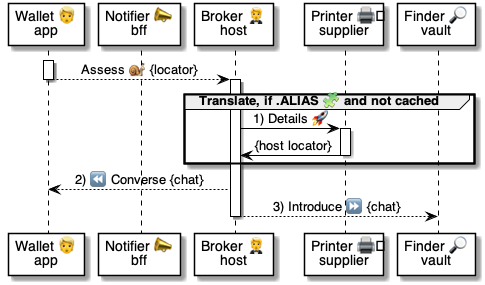
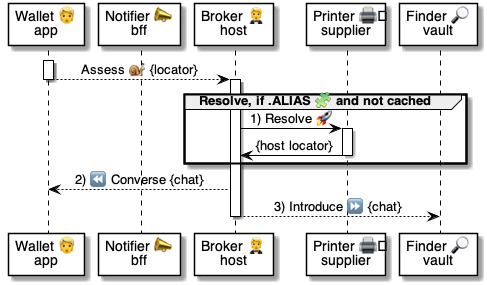
.

diff --git a/4 ⚙ Solution/45 🤲 Helper domains/Printers 🖨/🖨🅰 Printer methods/👥🚀🖨 Grab.md b/4 ⚙ Solution/45 🤲 Helper domains/Printers 🖨/🖨🅰 Printer methods/👥🚀🖨 Grab.md
@@ -11,9 +11,10 @@ Header:
     From: any-domain.dom
     To: any-printer.dom
     Subject: Grab@Printer
+
 Body: 
     Alias: ANY-ALIAS
-    Locator: .HOST,any-host.dom,ANY-RESOURCE,A=1,B=2
+    Locator: .HOST,any-host.dom,any-key
 ```
 
 |Object|Property|Type|Description
@@ -22,14 +23,46 @@ Body:
 || `To` | string | [Printer 🖨 domain](<../🖨🤲 Printer helper.md>) name
 || `Subject`| string | `Grab@Printer`
 |Body|`Alias`| string | Unique alias on the [Printer 🖨](<../🖨🤲 Printer helper.md>)
-|       | `Locator`    | string | The [Locator 🔆](<../../../25 🔆 Locators/Locators 🔆/🔆 Locator.md>) of a [Host 🤗 domain](<../../../41 🎭 Domain Roles/Hosts 🤗/🤗🎭 Host role.md>) 
+|| Locator | string | [Locator 🔆](<../../../25 🔆 Locators/Locators 🔆/🔆 Locator.md>) 
 |
+
+<br/>
 
 ## Synchronous Response
 
 | HTTP | Details
 |-|-
 | 200   | Success.
-| 409   | Alias already occupied: <br/> - use another alias.
-| 405   | Locator not supported: <br/> - only [`.HOST 🧩`](<../../../41 🎭 Domain Roles/Hosts 🤗/🤗🧩 Host schemas/🧩 HOST.md>) is supported.
+| 409   | Alias already occupied - use another alias.
+| 400   | Locator not supported - only [`.HOST 🧩`](<../../../41 🎭 Domain Roles/Hosts 🤗/🤗🧩 Host schemas/🧩 HOST.md>) is supported.
 |
+
+<br/>
+
+## Handler
+
+```yaml
+# Verify the signature.
+- VERIFY|$.Msg
+
+# Only create Alias for Hosts.
+- ASSERT|$.Msg.Locator:
+    Host: .HOST
+
+# Save on the table.
+- SAVE|Aliases@Printer >> $locator:
+    Alias: $.Msg.Alias
+    Locator: $.Msg.Locator 
+
+# Respond with the Locator.
+- REEL
+```
+
+| [Command ⌘](<../../../35 💬 Chats/😃 Talkers/😃⚙ Talker cmds/for control/⌘ Command.md>) | Purpose
+|-|-
+| 📨 [`$.Msg`](<../../../35 💬 Chats/😃 Talkers/😃⚙ Talker cmds/for handlers/$.Msg 📨.md>) | Read the incoming [Message 📨](<../../../30 🧩 Data/Messages 📨/📨 Message.md>)
+| 🚦 [`ASSERT`](<../../../35 💬 Chats/😃 Talkers/😃⚙ Talker cmds/for handlers/ASSERT 🚦.md>) | Require [Locator 🔆](<../../../25 🔆 Locators/Locators 🔆/🔆 Locator.md>) schemas as `.HOST`
+| 💾 [`SAVE`](<../../../35 💬 Chats/😃 Talkers/😃⚙ Talker cmds/for data/SAVE 💾 item.md>) | Save to [Aliases 🪣](<../🖨🪣 Printer tables/🖨🪣 Aliases.md>) with `NoUpdate`
+| 🎣 [`REEL`](<../../../35 💬 Chats/😃 Talkers/😃⚙ Talker cmds/for handlers/REEL 🎣.md>) | Respond to the [Synchronous Request 🚀](<../../../30 🧩 Data/Messages 📨/📨⏩ Message flows/Request Sync 🚀.md>)
+|
+

diff --git a/4 ⚙ Solution/35 💬 Chats/😃 Talkers/😃⚙ Talker cmds/for flows/FILTER 🔽 msg.md b/4 ⚙ Solution/35 💬 Chats/😃 Talkers/😃⚙ Talker cmds/for flows/FILTER 🔽 msg.md
@@ -9,7 +9,7 @@
 
     A `FILTER`
     * is a message [Command ⌘](<../for control/⌘ Command.md>) 
-    * that calls [`MANY` 🔠 prompt](<🤔✏ Prompt inputs/54 🔠 MANY prompt.md>)
+    * that calls [`MANY` 🔠 prompt](<../../../🤔 Prompts/🤔✏ Prompt inputs/54 🔠 MANY prompt.md>)
     * to return only the user-selected items of a list.
 
 
@@ -40,11 +40,11 @@
 
 1. **What's an example of a FILTER?**
 
-    Here's a [Chat 💬](<../../../4 ⚙ Solution/35 💬 Chats/💬 Chats/💬 Chat.md>).
+    Here's a [Chat 💬](<../../../💬 Chats/💬 Chat.md>).
 
-    | [Domain](<../../../40 👥 Domains/👥 Domain.md>) | [Prompt](<../../../35 💬 Chats/🤔 Prompts/🤔 Prompt.md>) | [User](<../🧑🦰🛠 Wallet app.md>)
+    | [Domain](<../../../../40 👥 Domains/👥 Domain.md>) | [Prompt](<../../../🤔 Prompts/🤔 Prompt.md>) | [User](<../../../../20 🧑🦰 UI/Wallets 🧑🦰/🧑🦰🛠 Wallet app.md>)
     | - | - | - |
-    | 🤗 [Host](<../../../41 🎭 Domain Roles/Hosts 🤗/🤗🎭 Host role.md>) | 😃 Which options? [All, No] <br/> - [ ] Some option <br/> - [ ] Another option | > All
+    | 🤗 [Host](<../../../../41 🎭 Domain Roles/Hosts 🤗/🤗🎭 Host role.md>) | 😃 Which options? [All, No] <br/> - [ ] Some option <br/> - [ ] Another option | > All
     ||
 
     <br/>
@@ -104,10 +104,10 @@
 
     | [Command ⌘](<../../../../35 💬 Chats/😃 Talkers/😃⚙ Talker cmds/for control/⌘ Command.md>) | Purpose
     |-|-
-    | ⬇ [`EVAL`](<../../../4 ⚙ Solution/35 💬 Chats/😃 Talkers/😃⚙ Talker cmds/for data/EVAL ⬇ flow.md>) | Format the options
+    | ⬇ [`EVAL`](<../for data/EVAL ⬇ flow.md>) | Format the options
     | 🔠 [`MANY`](<../../../🤔 Prompts/🤔✏ Prompt inputs/54 🔠 MANY prompt.md>) | Ask the user to select
     | 🧬 [`MERGE`](<../../../../35 💬 Chats/😃 Talkers/😃⚙ Talker cmds/for data/MERGE 🧬 lists.md>) | Merge the results
-    | ↩ [`RETURN`](<RETURN ↩.md>) | Return the selection
+    | ↩ [`RETURN`](<../for control/RETURN ↩.md>) | Return the selection
         
     
 

diff --git a/4 ⚙ Solution/30 🧩 Data/Datasets 🪣/🪣🔣 Dataset types/Itemized 🛢.md b/4 ⚙ Solution/30 🧩 Data/Datasets 🪣/🪣🔣 Dataset types/Itemized 🛢.md
@@ -6,7 +6,23 @@
 
 <br/>
 
-1. **Whats the simplest syntax for itemized schemas?**
+
+1. **What properties are supported?**
+
+    | Property      | Type | Details
+    |-|-|-
+    | `Name`        | string    | Name of the table
+    | `Key`         | string[]  | Index for updates
+    | `Parents`     | map       | List of parent items
+    | `Children`    | map       | List of children items
+    | `Distincts`   | map       | List of grouped fields
+    | `NoUpdates`   | bool      | Blocks item updates
+    | `OnBlocked`   | string[]  | [Commands ⌘](<../../../35 💬 Chats/😃 Talkers/😃⚙ Talker cmds/for control/⌘ Command.md>) if blocked
+
+    ---
+    <br/>
+
+1. **What's the simplest syntax for itemized schemas?**
 
     ```yaml
     # First column is the key.
@@ -190,7 +206,29 @@
     ---
     <br/>
    
+1. **How to block updates?**
 
+    Here's the table definition.
+
+    ```yaml
+    NoUpdates: True  # it's False by default
+    ```
+
+    Here's a [Talker 😃](<../../😃 Talker.md>) excerpt from [`Grab@Printer`](<../../../45 🤲 Helper domains/Printers 🖨/🖨🅰. Printer methods/👥🚀🖨 Grab.md>)
+
+    ```yaml
+    SAVE|AnyTable:
+        OnBlocked: REEL|409
+    ```
+
+    |Action|Condition|Behavior
+    |-|-|-
+    | 💾 [`SAVE`](<../../../35 💬 Chats/😃 Talkers/😃⚙ Talker cmds/for data/SAVE 💾 item.md>) | Same value | Allows multiple  idempotent saves
+    | |Different | Blocked, raises an error
+    | 🗑 [`DELETE`](<../../../35 💬 Chats/😃 Talkers/😃⚙ Talker cmds/for data/DELETE 🗑 item.md>) | - | Allows multiple idempotent times
+
+    ---
+    <br/>
 
 1. **What are use cases of itemized schemas?**
 

diff --git a/4 ⚙ Solution/20 🧑🦰 UI/Brokers 🤵/🤵🅰 Broker methods/2 🤵🅰 Locators/🧑🦰🐌🤵 Assess.md b/4 ⚙ Solution/20 🧑🦰 UI/Brokers 🤵/🤵🅰 Broker methods/2 🤵🅰 Locators/🧑🦰🐌🤵 Assess.md
@@ -3,7 +3,6 @@
 * Part of [🤵⏩🧑🦰 Assess 🔆 flow](<../../🤵⏩ Broker flows/🤵⏩🧑🦰 Assess 🔆.md>):
     * precedes [`Converse@Notifier`](<../../../Notifiers 📣/📣🅰 Notifier methods/2 💬 Chats/1 🤵🐌📣 Converse.md>)
 
-
 * Parses the [Locator 🔆](<../../../../25 🔆 Locators/Locators 🔆/🔆 Locator.md>) in the [Broker 🤵 domain](<../../🤵🤲 Broker helper.md>).
     * If the [Locator 🔆](<../../../../25 🔆 Locators/Locators 🔆/🔆 Locator.md>) is [`.ALIAS 🧩`](<../../../../45 🤲 Helper domains/Printers 🖨/🖨🧩 Printer schemas/🧩 ALIAS.md>) 
     * then it needs to be be resolved by a [Printer 🖨 helper domain](<../../../../45 🤲 Helper domains/Printers 🖨/🖨🤲 Printer helper.md>)
@@ -44,7 +43,7 @@ Body:
 
 | # | Call | Notes
 |-|-|-
-| 1 | 
+| 1 | [👥🚀🖨 `Resolve@Printer`](<../../../../45 🤲 Helper domains/Printers 🖨/🖨🅰 Printer methods/👥🚀🖨 Resolve.md>) | Get the underlying [Locator 🔆](<../../../../25 🔆 Locators/Locators 🔆/🔆 Locator.md>) 
 | 2 | [🤵⏩🧑🦰 Converse 🔆](<../../🤵⏩ Broker flows/🤵⏩🧑🦰 Converse 💬.md>) | Ask [Wallets 🧑🦰](<../../../Wallets 🧑🦰/🧑🦰🛠 Wallet app.md>)  to open a chat window
 | 3 | [🔎⏩🧑🦰 Introduce 🤗](<../../../../50 🫥 Agent domains/Finders 🔎/🔎⏩ Finder flows/🔎⏩🧑🦰 Introduce 🤗.md>) | Ask [Finders 🔎](<../../../../50 🫥 Agent domains/Finders 🔎/🔎🫥 Finder agent.md>) to introduce [Hosts 🤗](<../../../../41 🎭 Domain Roles/Hosts 🤗/🤗🎭 Host role.md>)
 ||

diff --git a/4 ⚙ Solution/35 💬 Chats/😃 Talkers/😃⚙ Talker cmds/for handlers/ASSERT 🚦.md b/4 ⚙ Solution/35 💬 Chats/😃 Talkers/😃⚙ Talker cmds/for handlers/ASSERT 🚦.md
@@ -20,13 +20,14 @@
 1. **What's the syntax of ASSERT?**
 
     ```yaml
-    ASSERT:
+    ASSERT|<hint>:
         {evaluate-1}: {expect-1}
         {evaluate-N}: {expect-N}
     ```
     
     | Argument| Purpose | Examples
     |-|-|-
+    | `<hint>` | Optional hint about the structure | `$locator`
     | `{evaluate}` | String or [{Function}](<../for data/{Function} 🐍.md>) to be evaluated | `A` `{f}` `{$p}`
     || Supports missing `{}` in functions | `f()` `$p`
     | `{expect}` | String or [{Function}](<../for data/{Function} 🐍.md>) of expectation  | (same)
@@ -35,12 +36,36 @@
     <br/>
 
 
-1. **What's an example of ASSERT?**
+1. **How to assert a Message?**
 
     ```yaml
+    # Assert a matching pair.
     - ASSERT:
-        $.Msg.From: $broker
-    - SUCCESS|Message is from the broker.
+        $.Msg.From: any-broker.dom
+
+    # Show success message.
+    - SUCCESS|Message is from Any Broker
+    ```
+
+    ---
+    <br/>
+
+
+1. **How to assert a Locator?**
+
+    > This uses the syntax of the [`{.Parse}` 🔆 function](<{.Parse} 🔆.md>).
+
+    ```yaml
+    # Put the locator in a placeholder
+    - EVAL >> $locator:
+        nlweb.org/HOST:1.0,any-host.dom,ANY-RESOURCE
+
+    # Assert for equivalence to .HOST
+    - ASSERT|$locator:
+        Schema: .HOST
+
+    # Show success message.
+    - SUCCESS|The schema is equivalent to ./HOST
     ```
 
     ---

diff --git a/4 ⚙ Solution/35 💬 Chats/😃 Talkers/😃⚙ Talker cmds/for handlers/{.Parse} 🔆.md b/4 ⚙ Solution/35 💬 Chats/😃 Talkers/😃⚙ Talker cmds/for handlers/{.Parse} 🔆.md
@@ -1,0 +1,43 @@
+# 🔆 Talker `{.Parse}` function
+
+> Part of [Talker 😃](<../../😃 Talker.md>)
+
+> Used by [`Grab@Printer`](<../../../../45 🤲 Helper domains/Printers 🖨/🖨🅰 Printer methods/👥🚀🖨 Grab.md>)
+
+<br/>
+
+1. **What's a `{.Parse}` function?**
+   
+   A `{.Parse}` 
+   * is a built-in [{Function}](<../for data/{Function} 🐍.md>)
+   * that returns information about a specific [Locator 🔆](<../../../../25 🔆 Locators/Locators 🔆/🔆 Locator.md>).
+
+    ---
+    <br/>
+
+
+1. **How to use a `{.Parse}` function?**
+
+    Consider the following [Locator 🔆](<../../../../25 🔆 Locators/Locators 🔆/🔆 Locator.md>) in a placeholder `$in`.
+
+    ```yaml
+    .HOST:1.0,any-host.dom,ANY-RESOURCE
+    ```
+
+    Here's the [Talker 😃](<../../😃 Talker.md>).
+
+    ```yaml
+    - EVAL|.Parse($in) >> $out
+    ```
+
+    Here's the properties returned.
+
+    | Expression| Result
+    |-|-
+    | `Schema`| `nlweb.dom/HOST:1.0`
+    | `Host`| `any-host.dom`
+    | `Key`| `ANY-RESOURCE`
+
+    ---
+    <br/>
+

diff --git a/4 ⚙ Solution/45 🤲 Helper domains/Printers 🖨/🖨🪣 Printer tables/🖨🪣 Aliases.md b/4 ⚙ Solution/45 🤲 Helper domains/Printers 🖨/🖨🪣 Printer tables/🖨🪣 Aliases.md
@@ -1,0 +1,32 @@
+# 🖨🪣 Locators @ Printer
+
+> Part of [Printer 🖨 helper domain](<../🖨🤲 Printer helper.md>)
+
+
+<br/>
+
+## Schema
+
+Here's the [Itemized 🛢 schema](<../../../30 🧩 Data/Datasets 🪣/🪣🔣 Dataset types/Itemized 🛢.md>).
+
+```yaml
+# Aliases.yaml
+Name: Aliases
+Key: Alias
+NoUpdates: True
+```
+
+<br/>
+
+## Example
+
+Here's the [`GET` command](<../../../35 💬 Chats/😃 Talkers/😃⚙ Talker cmds/for data/GET ⏬ item.md>) result.
+
+```yaml
+# GET|Aliases|ANY-ALIAS
+Alias: ANY-ALIAS
+Schema: .HOST
+Host: any-host.dom
+Key: ANY-RESOURCE
+Parameters: {A:1, B:2}
+```

diff --git a/4 ⚙ Solution/35 💬 Chats/😃 Talkers/😃⚙ Talker cmds/for data/GET ⏬ item.md b/4 ⚙ Solution/35 💬 Chats/😃 Talkers/😃⚙ Talker cmds/for data/GET ⏬ item.md
@@ -28,6 +28,8 @@
     - GET >> $item:
         Pool: <pool>
         Key: <key>
+        # Required by default
+        OnMissing: <command>
     ```
 
     ```yaml
@@ -39,6 +41,7 @@
     |-|-|-
     | `Pool` | Name of resource pool | `MyPool`
     | `Key`  | Key to look up in the pool | `MyKey` `$key`
+    | `OnMissing` | [Command ⌘](<../for control/⌘ Command.md>) or [Procedure ⚙](<../for control/⚙ Procedure.md>) | `Handler`
     | `$item` | Item to retrieve
 
     ---

diff --git a/4 ⚙ Solution/35 💬 Chats/😃 Talkers/😃⚙ Talker cmds/for data/SAVE 💾 item.md b/4 ⚙ Solution/35 💬 Chats/😃 Talkers/😃⚙ Talker cmds/for data/SAVE 💾 item.md
@@ -88,3 +88,10 @@
 
     ---
     <br/>
+
+1. **How do handled blocked tables?**
+
+    Raises a 409 HTTP error in a [Talker 😃](<../../😃 Talker.md>) when trying to update an [Itemized 🛢 dataset](<Itemized 🛢.md>) with the `NoUpdate` flag active - e.g. [`Grab@Printer`](<../../../../45 🤲 Helper domains/Printers 🖨/🖨🅰 Printer methods/👥🚀🖨 Grab.md>).
+
+    ---
+    <br/>

diff --git a/4 ⚙ Solution/35 💬 Chats/😃 Talkers/😃⚙ Talker cmds/for handlers/REEL 🎣.md b/4 ⚙ Solution/35 💬 Chats/😃 Talkers/😃⚙ Talker cmds/for handlers/REEL 🎣.md
@@ -19,12 +19,13 @@
 1. **What's the syntax of REEL for Synchronous Requests?**
 
     ```yaml
-    REEL:
+    REEL|<http-code>:
       {response}
     ```
     
     | Argument| Purpose |
     |-|-
+    | `<http-code>`| Defaults to `200` if omitted
     | `{response}` | Response for the [Synchronous Request 🚀](<../../../../30 🧩 Data/Messages 📨/📨⏩ Message flows/Request Sync 🚀.md>)
 
     ---

diff --git a/4 ⚙ Solution/45 🤲 Helper domains/Printers 🖨/🖨🅰 Printer methods/👥🚀🖨 Resolve.md b/4 ⚙ Solution/45 🤲 Helper domains/Printers 🖨/🖨🅰 Printer methods/👥🚀🖨 Resolve.md
@@ -43,3 +43,22 @@ Property|Type|Description
 |-|-|-
 | Locator | string | [Locator 🔆](<../../../25 🔆 Locators/Locators 🔆/🔆 Locator.md>) 
 |
+
+<br/>
+
+## Handler
+
+
+```yaml
+# Verify the signature.
+- VERIFY|$.Msg
+
+# Get from the table.
+- GET >> $alias:
+    Pool: Aliases@Printer
+    Key: $.Msg.Alias
+
+# Respond with the Locator.
+- REEL:
+    Locator: $alias.Locator
+```

diff --git a/4 ⚙ Solution/35 💬 Chats/😃 Talkers/😃🪣 Talker tables/😃🪣 Hooks 🪝.md b/4 ⚙ Solution/35 💬 Chats/😃 Talkers/😃🪣 Talker tables/😃🪣 Hooks 🪝.md
@@ -1,4 +1,7 @@
+
 <!-- TODO: -->
+
+# 😃🪣 Hooks @ Talker 🪝
 
 > Used in [`Bound@Vault`](<../../../41 🎭 Domain Roles/Vaults 🗄/🗄🅰 Vault methods/to Bind/🤵🐌🗄 Bound.md>)
 
